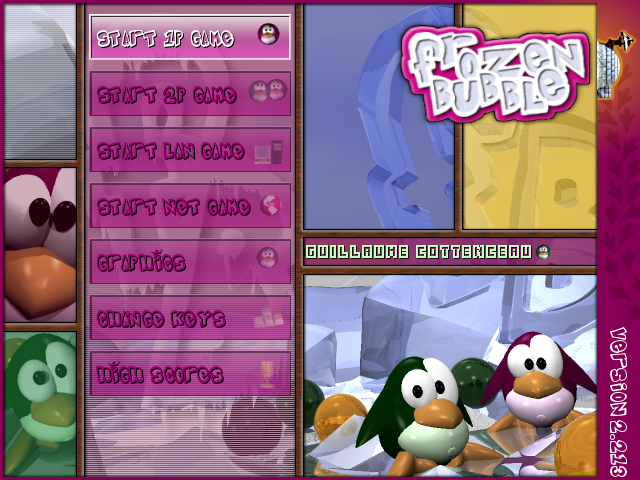
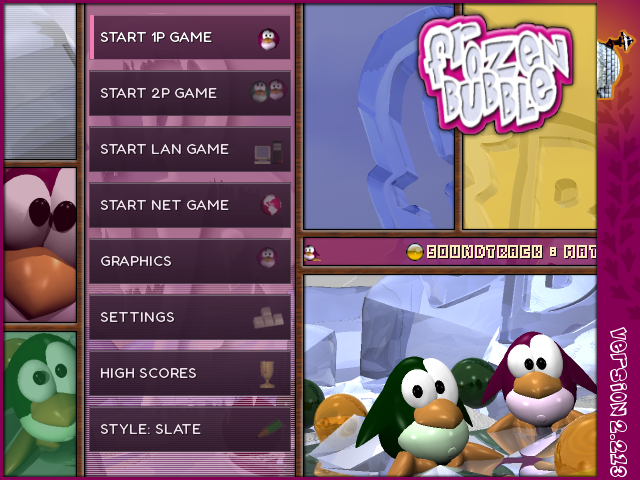
chore: recapture the main-menu Play Store screenshot
screenshot-7-main-menu.png predated the MENU STYLE row (260dc1db) and the
SETTINGS keys-row runtime-label fix (028e4e9c), so it was still showing the
old wood-popup panel look Play Store visitors wouldn't actually see.
Recaptured off a live WASM build's canvas the same way the original was,
flattened to RGB (no alpha) to match Play's requirements and the other
checked-in screenshots.

Changed region(s): [[0.125, 0.0312, 0.9375, 0.9688], [0.5938, 0.0, 0.9375, 0.3125]]

diff --git a/docs/store-assets/README.md b/docs/store-assets/README.md
@@ -33,7 +33,9 @@
   title screen, captured straight off the canvas (`canvas.toDataURL()`) of a
   locally served WASM build (`tools/serve-wasm.py`) rather than a device
   screenshot, since there's no letterboxing or OS chrome to crop out that
-  way.
+  way. Recaptured 2026-09-03 after the MENU STYLE row (`260dc1db`) and the
+  runtime-rendered SETTINGS label fix (`028e4e9c`) — the previous capture
+  predated both and still showed the old wood-popup panel look.
 
 - **`icon-512.png`** (512×512, 24-bit RGB) — Play's high-res store icon. A
   resize of `share/icons/frozen-bubble-icon-1024x1024.png`, the single
